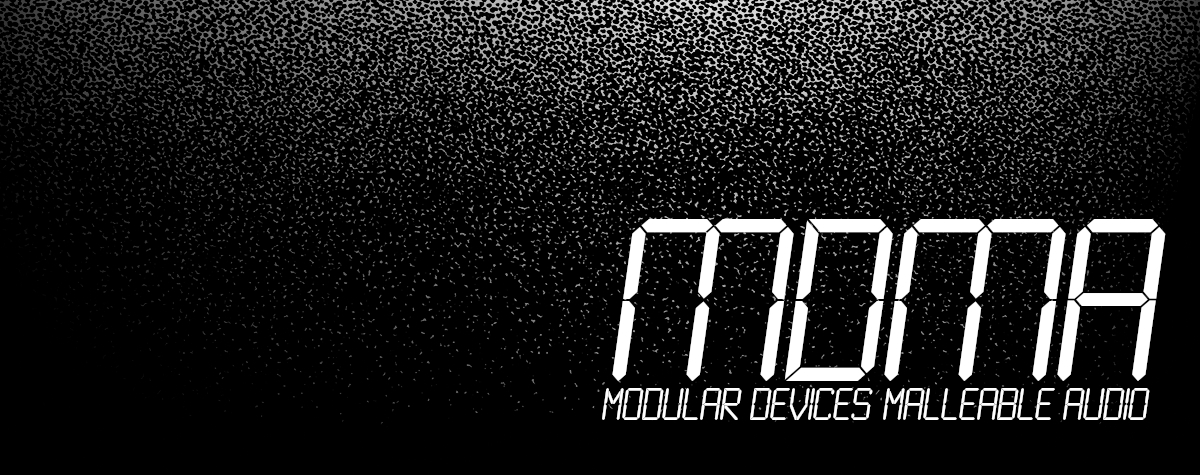
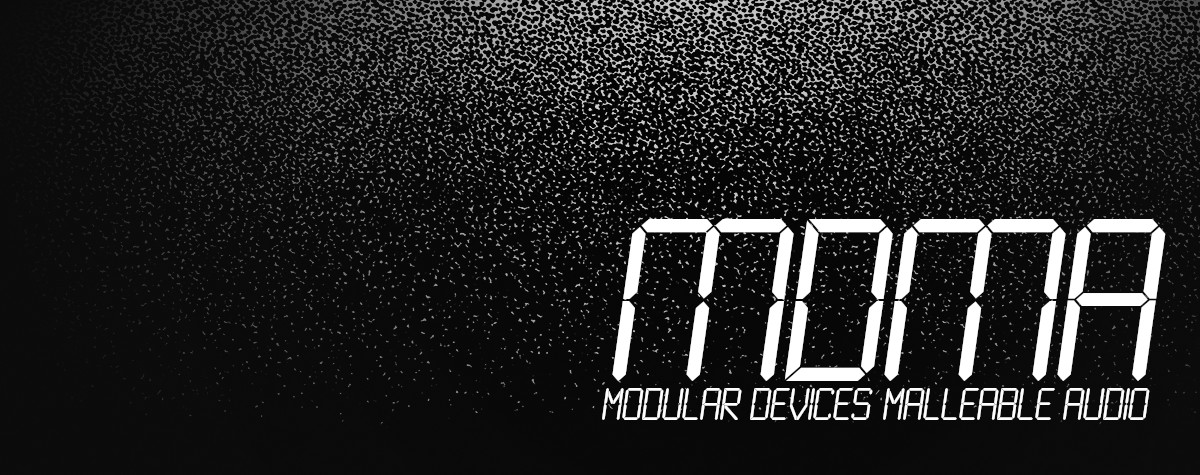
black to grey

Changed region(s): [[0.0, 0.0, 0.4008, 0.2358], [0.9558, 0.0589, 1.0, 0.3832], [0.9867, 0.4126, 1.0, 0.5011]]

diff --git a/_sass/_dark.scss b/_sass/_dark.scss
@@ -7,7 +7,7 @@
   --border: dashed 1px rgba(219, 219, 219, 0.9);
   --selection-background: rgba(219, 219, 219, 0.99);
   --selection-text: #000;
-  --background-color: #000;
+  --background-color: #0b0b0b;
   --text-color: var(--base-color);
   --placeholder-color: var(--base-color);
   --link-color: var(--base-color);
